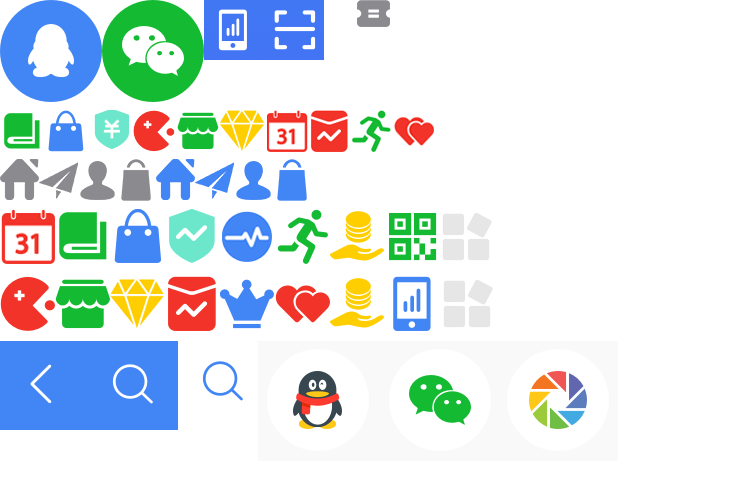
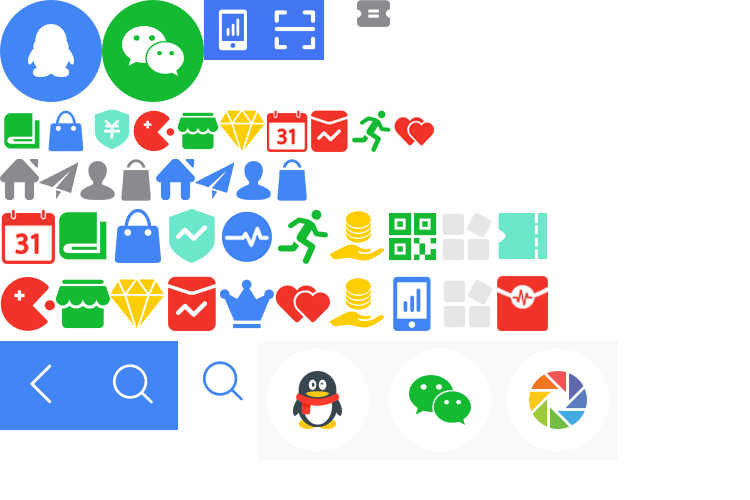
1

Changed region(s): [[0.644, 0.42, 0.736, 0.66]]

diff --git a/llyh/css/style.css b/llyh/css/style.css
@@ -298,7 +298,7 @@ div{
 .index .taskList ul li{ box-shadow: none; border: 1px solid #f4f4f4;}
 
 /*赚流量*/
-.zhuan ul{ padding-left: .43rem; padding-top: .83rem;}
+.zhuan ul{ padding-left: .43rem; padding-top: .83rem; padding-bottom: 1.67rem;}
 .zhuan ul li{ float: left; margin: .32rem}
 .zhuan ul li a{ display: block; width: 2.32rem; height: 2.32rem; border-radius: .13rem; background: #fff; border: 1px solid #ededed; position: relative;}
 .zhuan ul li a i{ display: block; width: .73rem; height:.73rem; background: url(../images/icons.png) no-repeat; background-size: 10rem 6.67rem; position: absolute; top: .44rem; left: .79rem;}
@@ -311,6 +311,7 @@ div{
 .zhuan ul li a .icon7{ background-position: -4.38rem -2.79rem;}
 .zhuan ul li a .icon8{ background-position: -5.11rem -2.79rem;}
 .zhuan ul li a .icon9{ background-position: -5.84rem -2.79rem;}
+.zhuan ul li a .icon10{ background-position:-6.6rem -2.79rem;}
 .zhuan ul li a span{ display: block; width: 2.32rem; text-align: center; color: #8a8a8f; margin-top:1.6rem;}
 
 
@@ -325,6 +326,7 @@ div{
 .hua ul li a .icon7{ background-position: -4.41rem -3.68rem;}
 .hua ul li a .icon8{ background-position: -5.11rem -3.68rem;}
 .hua ul li a .icon9{ background-position: -5.84rem -3.68rem;}
+.hua ul li a .icon10{ background-position: -6.6267rem -3.68rem;}
 
 
 
@@ -346,6 +348,21 @@ div{
 .search-main{ position: relative; display: none;}
 .search-main input{ width: 9.1467rem; height: 1.0667rem; background: #fff; border-radius: .1333rem; text-indent: .5333rem; border: none;}
 .search-main .btn{ width: .99rem; height: .99rem; display: block; position: absolute; top: -1.5rem; right: .5rem; background: url(../images/icons.png) no-repeat; background-size: 10rem 6.6667rem; background-position: -2.4733rem -4.5467rem;}
+
+
+
+/*红包兑换详情页*/
+.mall-redPacket .pic{ text-align: center; width: 10rem; height: 7.0133rem; background: #fff;}
+.mall-redPacket .pic img{ text-align: center; width: 3.5067rem; height: 4.3333rem; margin-top: .9333rem;}
+.mall-redPacket .pic p{ color: #000; margin-top: .6667rem}
+.mall-redPacket .detail{ margin-top: .8rem;}
+.mall-redPacket .detail span{ color: #f22d2d; font-weight: bold; margin-left: .5333rem}
+.mall-redPacket .detail a{ display: inline-block; width: 1.9467rem; height: .72rem; background: #f22d2d; line-height: .72rem; text-align: center; color: #fff; border-radius: .1333rem; margin-right: .48rem;}
+.mall-redPacket .introduce{ width: 9.1067rem; margin: 2rem auto .4rem auto; background: #d64f47; border-radius: .2rem; color: #fff; line-height: .5333rem; padding: .5733rem .72rem; }
+.mall-redPacket .introduce .title{ color: #fff; font-weight: bold; text-align: center; background: none; position: relative; margin-bottom: .4267rem;}
+.mall-redPacket .introduce .title .mall-redPacket01{ width: .8rem; height: .92rem; position: absolute; top:0; left: 0;}
+.mall-redPacket .introduce .title .mall-redPacket02{ width: .8533rem; height: .92rem; position: absolute; top: 0; right: 0;}
+
 
 
 

diff --git a/llyh/兑红包详情页.html b/llyh/兑红包详情页.html
@@ -1,0 +1,44 @@
+<!DOCTYPE html>
+<html lang="en" style="background:none;">
+<head>
+  <meta charset="UTF-8">
+  <meta content="yes" name="apple-mobile-web-app-capable">
+  <meta content="yes" name="apple-touch-fullscreen">
+  <meta content="telephone=no,email=no" name="format-detection">
+  <meta http-equiv="X-UA-Compatible" content="chrome=1">
+  <link rel="stylesheet" href="./css/style.css">
+  <script src="./js/flexible_css.debug.js" charset="utf-8"></script>
+  <script src="./js/flexible.debug.js" charset="utf-8"></script>
+  <title>流量商城</title>
+</head>
+<body class="bg">
+  <div class="container">
+    <div class="title title2 font34">
+        <a class="back" href="javascript:;" onclick="javascript :history.back(-1);"></a>
+        流量商城
+    </div>
+    <div class="mall-redPacket">
+        <div class="pic">
+          <img src="images/mall-redPacket.png" alt="">
+          <p class="font28">微信红包</p>
+        </div>
+        <div class="detail">
+          <span class="font40 fl">10MB</span>
+          <a class="font24 fr" href="javascript:;">立即兑换</a>
+        </div>
+        <div class="introduce font24">
+          <div class="title">
+            <img class="mall-redPacket01" src="images/mall-redPacket01.jpg" alt="">
+            <p class="font40">红包介绍</p>
+            <img class="mall-redPacket02" src="images/mall-redPacket02.jpg" alt="">
+          </div>
+          1.微信红包是腾讯旗下产品微信于2014年1月27日推出的一款应用，此应用基于微信5.2版本运行。<br>
+2.微信红包的玩法简单，它背后是腾讯财付通运营的名为“新年红包”的公众号，功能上可以实现发红包、查收发记录和提现。<br>
+3.关注新年红包帐号后，微信用户可以发两种红包，一种是拼手气群红包，用户设定好总金额以及红包个数之后，可以生成不同金额的红包；还有一种是普通的等额红包，最为流行的是前者。<br>
+4.用户只要用微信扫描身边出现的红色二维码，通过腾讯应用宝成功安装其他应用软件，即可领取微信红包。的红包达到9412个。<br>
+5.2016年猴年除夕当日微信红包的参与人数达到4.2亿人，收发总量达80.8亿个，是羊年除夕10.1亿个的8倍。最高峰每秒钟收发40.9万个红包。2017年鸡年除夕当日收发142亿个微信红包，红包收发比猴年增长75.7%，高峰时段收发达到了76万个/秒。
+        </div>
+    </div>
+  </div>
+</body>
+</html>

diff --git a/hx-hb/App_theme/default/css/style.css b/hx-hb/App_theme/default/css/style.css
@@ -331,7 +331,7 @@ a:hover,a:visited{color:#c00; text-decoration:none;}
 .card{ display: none; top: 40%;}
 .card-price{ top: 8%; }
 .button{ position: absolute; top: 0; left: 0; width: 100vw; height: 100vh;}
-.btn{ position: absolute; top: 64vh; left: 0; width:70%; margin-left: 15%;}
+.btn{ position: absolute; top: 62vh; left: 0; width:70%; margin-left: 15%;}
 .take{ width: 100%; text-align: center; padding-top: 14%;}
 .take img{ width: 20%; position: relative; z-index: 99; animation: take01 2s ease-in-out forwards}
 @keyframes take01 {

diff --git a/llyh/花流量.html b/llyh/花流量.html
@@ -67,12 +67,18 @@
           </a>
         </li>
         <li>
+          <a href="兑红包详情页.html">
+            <i class="icon10"></i>
+            <span class="font24">兑红包</span>
+          </a>
+        </li>
+        <li>
           <a href="javascript:;">
             <i class="icon9"></i>
             <span class="font24">更多</span>
           </a>
         </li>
-      </ul>
+      </ul>      
     </div>
     <div class="index">
       <div class="index-bottom bottom-fixed">

diff --git a/hx-hb/eCard.html b/hx-hb/eCard.html
@@ -88,7 +88,7 @@
 
         <!--领取流程-->
         <div class="footer" id="footer">
-            <div class="lc">温馨提示：请至www.jd.com充值！</div>
+            <div class="lc">温馨提示：请至www.jd.com绑卡！</div>
             <!-- <div class="hd">本活动由快礼物提供技术支持</div> -->
         </div>
     </div>

diff --git a/llyh/赚流量.html b/llyh/赚流量.html
@@ -67,6 +67,12 @@
           </a>
         </li>
         <li>
+          <a href="x'x'x.html">
+            <i class="icon10"></i>
+            <span class="font24">抢券</span>
+          </a>
+        </li>
+        <li>
           <a href="javascript:;">
             <i class="icon9"></i>
             <span class="font24">更多</span>
